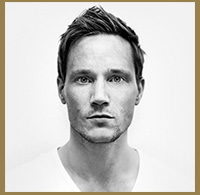
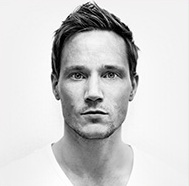
personal info added

Changed region(s): [[0.0, 0.0, 1.0, 1.0], [0.6349, 0.7527, 0.6878, 0.8065], [0.6085, 0.5914, 0.6349, 0.6183]]

diff --git a/style.css b/style.css
@@ -1,5 +1,5 @@
 .body{
-  font-family: "open sans";
+  font-family: "Open Sans";
 }
 .clear:before,
 .clear:after {
@@ -72,13 +72,16 @@ background-color: red;
   padding: 10px 50px;
 }
 .sub-container-header-block{
-  border-bottom: 1px dotted black;
+  border-bottom: 1px dashed #C7A457;
   height: 60px;
   margin-bottom: 40px;
+  margin:0 54px;
 }
 .sub-container-header-block h1{
   text-align: center;
   text-transform: uppercase;
+  color: #C7A457;
+  font-weight: lighter;
 }
 .service-block{
   width: 372px;
@@ -151,12 +154,63 @@ background-color: red;
   text-align: center;
 }
 .about-us{
+  background-image: url(img/brown_bg.png);
+  background-repeat: repeat;
+}
+.about-us-person1, .about-us-person2{
+  width: 500px;
+  height: 700px;
+  background-color: yellow;
+}
+.about-us-person1{
+  margin-right: 40px;
+}
+.about-us .personal-info-container{
+  width: 300px;
   height: 400px;
-  background-color: blue;
+  margin: 0 auto;
+  background-color: brown;
+  text-align: center;
+}
+.about-us .personal-info-container img{
+  border: 5px solid #C7A457;
+  border-radius: 50%;
+}
+.about-us .personal-info-container h1{
+  font-size: 50px;
+  font-weight: lighter;
+  color: #C7A457;
+  line-height: 10px;
+}
+.about-us .tel, .about-us .email{
+  color: #C7A457;
+}
+.personal-info-devider{
+  border-bottom: 1px solid #C7A457;
+  margin-bottom: 10px;
+}
+.certificates-container{
+  background-color: black;
+}
+.one-certificate{
+  background-color: brown;
+  width: 210px;
+  height: 60px;
+  
+}
+
+.about-us-person2{
+  margin-left: 40px;
+}
+.about-us-text-block p{
+color: white;
+}
+.about-us-sub-container{
+  margin: 0 50px;
 }
 .clients{
   height: 400px;
-  background-color: brown;
+  background-image: brown;
 }
 .contacts{
   height: 400px;

diff --git a/index.html b/index.html
@@ -140,9 +140,42 @@
 
       </div>
     </div>
-    <div class="about-us">
+    <div class="about-us clear">
+      <div class="about-us-sub-container">
+        <div class="sub-container-header-block">
+          <h1>
+            par mums
+          </h1>
+        </div>
+        <div class="about-us-text-block">
+          <p>
+            fjhjhsaljkv jhlhlkhzsd  knjsfkj;sd kj;kjfask; n;kjadflkjl kdjhkjakj kjkjdkjfkjhsa
+          </p>
+        </div>
+        <div class="about-us-person1 float-left">
+          <div class="personal-info-container">
+            <img src="_temp/edgarsudrisphoto.jpg">
+            <h1> Edgars Udris</h1>
+            <div class="personal-info-devider"></div>
+            <span class="tel">Tel: +371 29114401</span><br>
+            <span class="email">edgars@ventspilsmernieks.com</span>
+          </div>
+          <div class="certificates-container clear">
+            <div class="One-certificate float-left">
 
-    </div>
+            </div>
+            <div class="One-certificate float-left">
+
+            </div>
+
+          </div>
+        </div>
+        <div class="about-us-person2 float-left">
+
+        </div>
+
+       </div>
+     </div>
     <div class="clients">
 
     </div>
